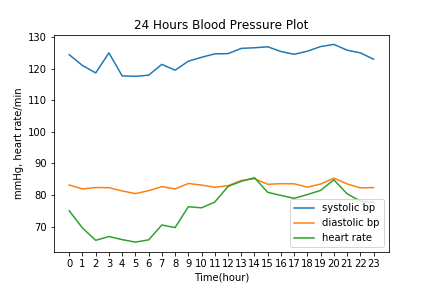
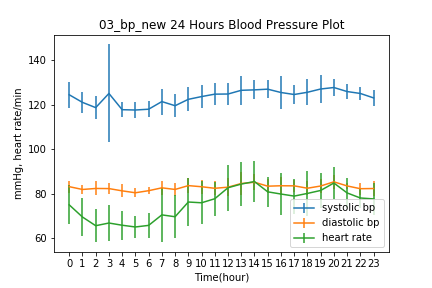
[冠志] 1.優化

diff --git a/asus_vivo_watch_bp/omnicare_tools/bloodpressure.py b/asus_vivo_watch_bp/omnicare_tools/bloodpressure.py
@@ -19,7 +19,7 @@ class Blood_pressure():
         print (df)
     
     #3
-    def preprocess_lineplot(self,name):
+    def preprocess(self,name):
         '''
         1. select the columns of interest
         2. eliminate rows when value = -1
@@ -43,36 +43,79 @@ class Blood_pressure():
         df['time'] = df['time'].apply(time_delete_year).apply(time_delete_minute) # adjust time to hour
         df.to_csv('bp_hr/clean/%s_clean.csv'%(name)) # save csv file
         
-        clean_csv = pd.read_csv('bp_hr/clean/%s_clean.csv'%(name))
+        self.clean_csv = pd.read_csv('bp_hr/clean/%s_clean.csv'%(name))
         
+    def mean_table(self, df = pd.DataFrame(), group = "time", showTable = False, row = 10):
+        '''
+        1. calculate mean of the blood pressure and the heart rate
+        2. return pandas dataframe with group table
+        '''
+        #print(type(time)) # check the data type 
+        #print(time.size()) # to know how large is the data in each column
+        #print(time.groups) # to know the details of each column and data
+        #print(time.get_group(12)) # get specific group e.g.12,
+        if df.empty:
+            df = self.clean_csv
+        table = df.groupby(group)
+        if showTable:
+            print(table.head(row))
+        return table.mean()
+    
+    def standard_deviation_table(self, df = pd.DataFrame(), group = "time", showTable = False, row = 10):
+        '''
+        1. calculate mean of the blood pressure and the heart rate
+        2. return pandas dataframe with group table
+        '''
+        #print(type(time)) # check the data type 
+        #print(time.size()) # to know how large is the data in each column
+        #print(time.groups) # to know the details of each column and data
+        #print(time.get_group(12)) # get specific group e.g.12,
+        if df.empty:
+            df = self.clean_csv
+        table = df.groupby(group)
+        standardDeviation = table.std()
+        if showTable:
+            print(standardDeviation.head(row))
+        return standardDeviation
         
+    #Draw a lineplot: x-axis = hour; y-axis = bp and hr(average sys and dia)
+    def lineplot(self, saveFile = False, showImage = True, fileName = "lineplot"):
+        table = self.mean_table() #calculate the mean of each time group
+        #print(table['hr']) #you can print a single column
+        
+        plt.title("%s 24 Hours Blood Pressure Plot"%(self.name))
+        plt.plot(table['sys'], label='systolic bp')
+        plt.plot(table['dia'], label='diastolic bp')
+        plt.plot(table['hr'], label='heart rate')
+        plt.legend(loc='lower right')
+        plt.xlabel('Time(hour)')
+        plt.ylabel('mmHg, heart rate/min')
+        plt.xticks(np.linspace(0,23,24))
+        if saveFile:
+            plt.savefig('bp_hr/fig/%s_bp_hr_%s'%(self.name, fileName))
+        if showImage:
+            plt.show()
+        plt.clf()
+        return
+    
         #Draw a lineplot: x-axis = hour; y-axis = bp and hr(average sys and dia)
-        def lineplot(clean_csv):
-            df = clean_csv
-            time = df.groupby('time')
-            #print(type(time)) # check the data type 
-            #print(time.size()) # to know how large is the data in each column
-            #print(time.groups) # to know the details of each column and data
-            #print(time.get_group(12)) # get specific group e.g.12,
-
-            table = time.mean() #calculate the mean of each time group
-            standardDeviation = time.std()
-            print(standardDeviation.head(5))
-            #print(table['hr']) #you can print a single column
-            
-            plt.title("24 Hours Blood Pressure Plot")
-            #plt.errorbar(x, y + 3, yerr=yerr, label='both limits (default)')
-            plt.errorbar(table.index, table['sys'], yerr = standardDeviation['sys'], label='systolic bp')
-            plt.errorbar(table.index, table['dia'], yerr = standardDeviation['dia'], label='diastolic bp')
-            plt.errorbar(table.index, table['hr'], yerr = standardDeviation['hr'], label='heart rate')
-#            plt.plot(table['sys'], label='systolic bp')
-#            plt.plot(table['dia'], label='diastolic bp')
-#            plt.plot(table['hr'], label='heart rate')
-            plt.legend(loc='lower right')
-            plt.xlabel('Time(hour)')
-            plt.ylabel('mmHg, heart rate/min')
-            plt.xticks(np.linspace(0,23,24))
-            plt.savefig('bp_hr/fig/%s_bp_hr_lineplot'%(name))
-            return
-            
-        lineplot(clean_csv) #use this function right away
+    def errorbar(self, saveFile = False, showImage = True, fileName = "lineplot"):
+        table = self.mean_table() #calculate the mean of each time group
+        standardDeviation = self.standard_deviation_table()
+        #print(table['hr']) #you can print a single column
+        
+        plt.title("%s 24 Hours Blood Pressure Plot"%(self.name))
+        #plt.errorbar(x, y + 3, yerr=yerr, label='both limits (default)')
+        plt.errorbar(table.index, table['sys'], yerr = standardDeviation['sys'], label='systolic bp')
+        plt.errorbar(table.index, table['dia'], yerr = standardDeviation['dia'], label='diastolic bp')
+        plt.errorbar(table.index, table['hr'], yerr = standardDeviation['hr'], label='heart rate')
+        plt.legend(loc='lower right')
+        plt.xlabel('Time(hour)')
+        plt.ylabel('mmHg, heart rate/min')
+        plt.xticks(np.linspace(0,23,24))
+        if saveFile:
+            plt.savefig('bp_hr/fig/%s_bp_hr_%s'%(self.name, fileName))
+        if showImage:
+            plt.show()
+        plt.clf()
+        return

diff --git a/asus_vivo_watch_bp/bp_scripts.py b/asus_vivo_watch_bp/bp_scripts.py
@@ -5,4 +5,6 @@
 import omnicare_tools.bloodpressure as ob
 df = ob.Blood_pressure('bp_hr/raw/03_bp_df_new.csv') #make the bp_csv file as a Blood_pressure object
 #df.showhead(15) #show the first 15 line of csv file
-df.preprocess_lineplot('03_bp_new') #save preprocess csv file and draw lineplot
+df.preprocess('03_bp_new') #save preprocess csv file and draw lineplot
+df.lineplot(saveFile=True)
+df.errorbar(saveFile=True)

diff --git a/asus_vivo_watch_bp/test.py b/asus_vivo_watch_bp/test.py
@@ -1,4 +1,6 @@
 import omnicare_tools.bloodpressure as ob
 df = ob.Blood_pressure('03_bp_df.csv')
 df.showhead(15)
-df.preprocess_lineplot('test22')
+df.preprocess('test22')
+df.lineplot(saveFile=True)
+df.errorbar(saveFile=True)
